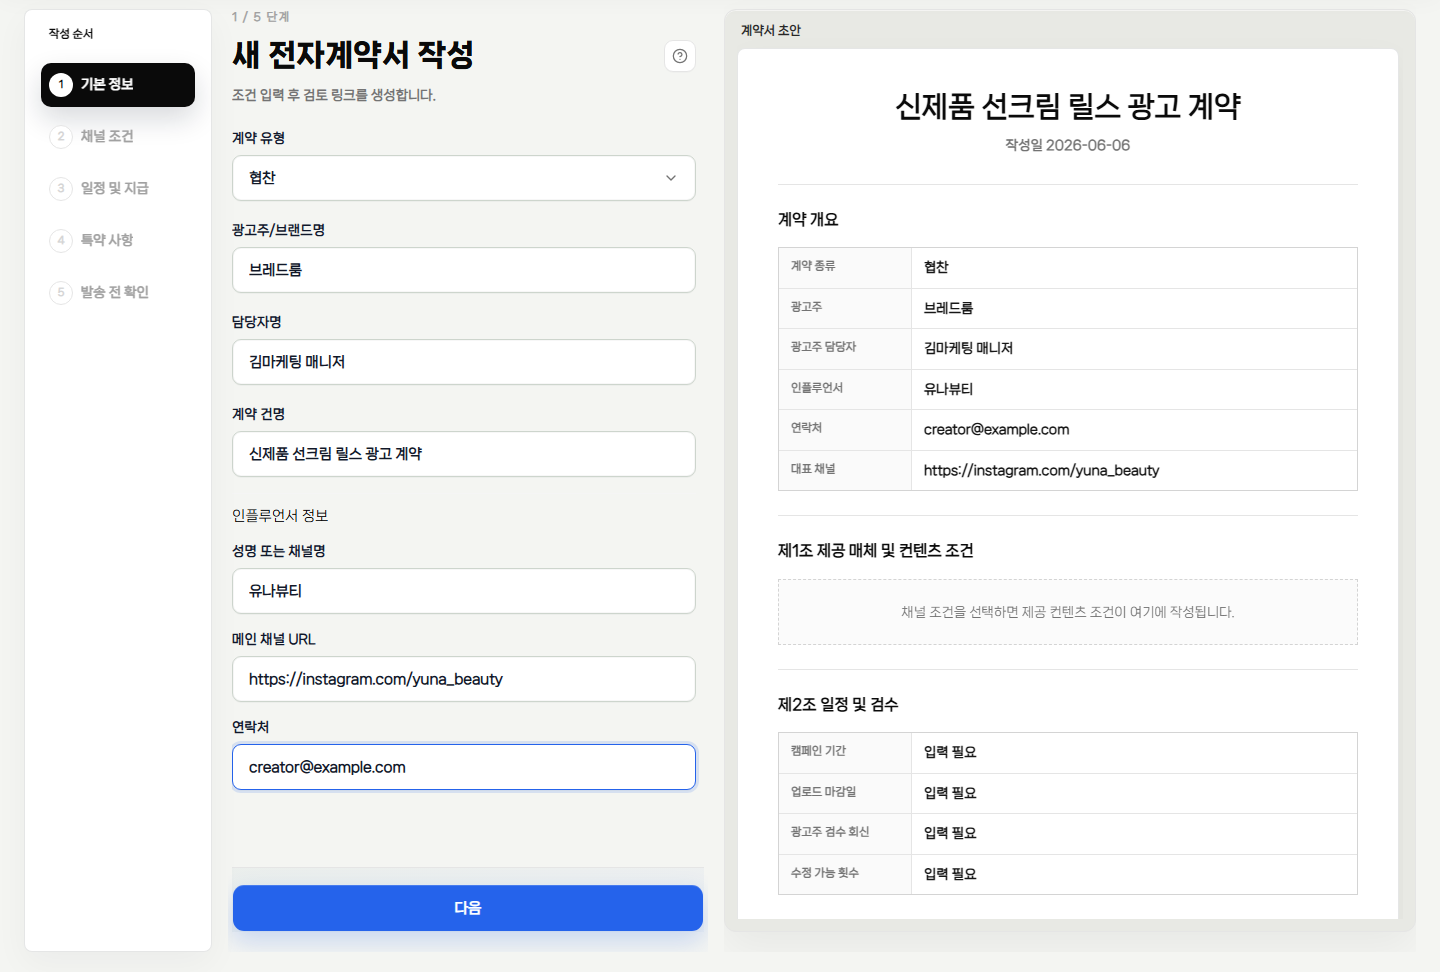
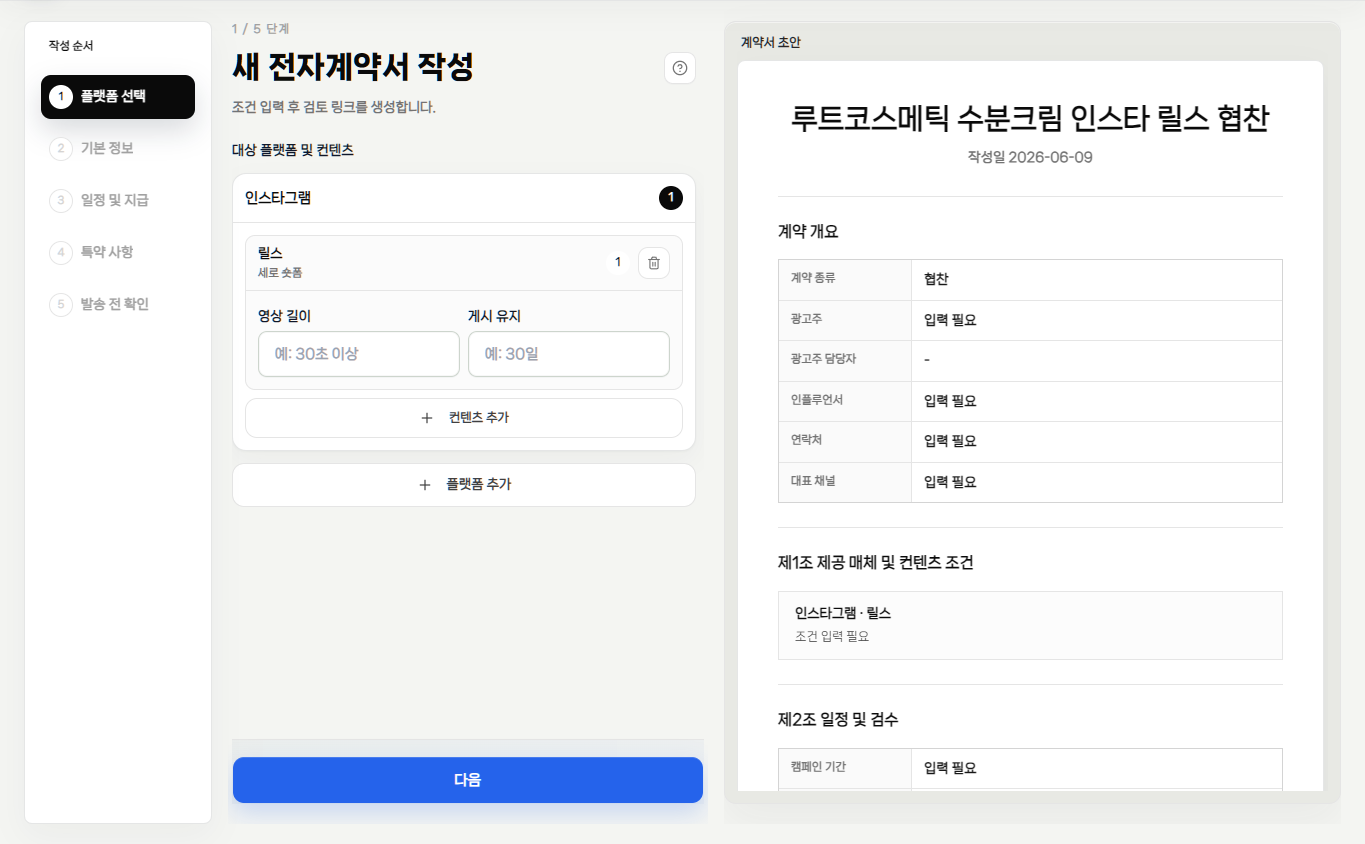
Update intro previews for contract builder

diff --git a/src/pages/landing/LandingPages.tsx b/src/pages/landing/LandingPages.tsx
@@ -35,6 +35,10 @@ const advertiserProposalAssetUrls = {
     "../../../docs/sales/assets/yeollock-intro-contract-builder-focused.png",
     import.meta.url,
   ).href,
+  introContractBuilderMobile: new URL(
+    "../../../docs/sales/assets/yeollock-intro-contract-builder-mobile.png",
+    import.meta.url,
+  ).href,
   introContractShare: new URL(
     "../../../docs/sales/assets/yeollock-intro-contract-share-focused.png",
     import.meta.url,
@@ -49,6 +53,18 @@ const advertiserProposalAssetUrls = {
   ).href,
   introContentReview: new URL(
     "../../../docs/sales/assets/yeollock-intro-content-review-focused.png",
+    import.meta.url,
+  ).href,
+  introContentReviewMobile: new URL(
+    "../../../docs/sales/assets/yeollock-intro-content-review-mobile.png",
+    import.meta.url,
+  ).href,
+  introCampaignsMobile: new URL(
+    "../../../docs/sales/assets/yeollock-intro-campaigns-mobile.png",
+    import.meta.url,
+  ).href,
+  introInfluencerDashboardMobile: new URL(
+    "../../../docs/sales/assets/yeollock-intro-influencer-dashboard-mobile.png",
     import.meta.url,
   ).href,
   contractHandshake: new URL(
@@ -351,12 +367,18 @@ function collectIntroProposalImageSources(slides: IntroProposalSlide[]) {
     if (slide.productPreview === "advertiserBuilder") {
       sources.add(advertiserProposalAssetUrls.contractBuilder);
       sources.add(advertiserProposalAssetUrls.introContractBuilder);
+      sources.add(advertiserProposalAssetUrls.introContractBuilderMobile);
     }
     if (slide.productPreview === "advertiserContractReview") {
       sources.add(advertiserProposalAssetUrls.introContentReview);
+      sources.add(advertiserProposalAssetUrls.introContentReviewMobile);
     }
     if (slide.productPreview === "advertiserApplicants") {
       sources.add(advertiserProposalAssetUrls.introCampaignApplicants);
+      sources.add(advertiserProposalAssetUrls.introCampaignsMobile);
+    }
+    if (slide.productPreview === "influencerDashboard") {
+      sources.add(advertiserProposalAssetUrls.introInfluencerDashboardMobile);
     }
   });
 
@@ -2300,12 +2322,18 @@ function IntroProposalProductPreview({
 
   if (kind === "influencerDashboard") {
     return (
-      <div className="h-full min-h-0 overflow-hidden rounded-[16px]">
-        <InfluencerIntroDashboardPreview
-          data={introDashboardDemoData.influencer}
-          stateIndex={1}
+      <>
+        <IntroMobileServiceCapture
+          imageAlt="실제 모바일 인플루언서 계약 대시보드 화면"
+          imageSrc={advertiserProposalAssetUrls.introInfluencerDashboardMobile}
         />
-      </div>
+        <div className="hidden h-full min-h-0 overflow-hidden rounded-[16px] sm:block">
+          <InfluencerIntroDashboardPreview
+            data={introDashboardDemoData.influencer}
+            stateIndex={1}
+          />
+        </div>
+      </>
     );
   }
 
@@ -2351,6 +2379,29 @@ function IntroDesktopServiceCapture({
   );
 }
 
+function IntroMobileServiceCapture({
+  imageAlt,
+  imageSrc,
+}: {
+  imageAlt: string;
+  imageSrc: string;
+}) {
+  return (
+    <section
+      data-intro-real-service-capture
+      data-intro-headerless-service-capture
+      className="flex h-full min-h-0 items-center justify-center overflow-hidden rounded-[16px] bg-[#e9ede8] p-2 sm:hidden"
+    >
+      <img
+        src={imageSrc}
+        alt={imageAlt}
+        className="h-auto max-h-[min(100%,560px)] w-auto max-w-[300px] object-contain object-center"
+        loading="eager"
+      />
+    </section>
+  );
+}
+
 function AdvertiserBuilderProductPreview() {
   return (
     <>
@@ -2367,36 +2418,44 @@ function AdvertiserBuilderProductPreview() {
 
 function ActualContractBuilderMobilePreview() {
   return (
-    <section className="relative h-full min-h-0 overflow-hidden rounded-[16px] bg-white shadow-[0_18px_48px_rgba(23,26,23,0.1)] sm:hidden">
-      <div className="absolute inset-0 overflow-hidden">
-        <img
-          src={advertiserProposalAssetUrls.contractBuilder}
-          alt="새 전자계약서 작성 화면"
-          className="absolute left-0 top-[-5.7%] h-auto w-[203%] max-w-none"
-          loading="eager"
-        />
-      </div>
-    </section>
+    <IntroMobileServiceCapture
+      imageAlt="실제 모바일 광고주 전자계약서 작성 화면"
+      imageSrc={advertiserProposalAssetUrls.introContractBuilderMobile}
+    />
   );
 }
 
 function AdvertiserContractReviewProductPreview() {
   return (
-    <IntroDesktopServiceCapture
-      imageAlt="실제 광고주 콘텐츠 검수 대시보드 화면"
-      imageSrc={advertiserProposalAssetUrls.introContentReview}
-      imageClassName="object-contain object-center"
-    />
+    <>
+      <IntroMobileServiceCapture
+        imageAlt="실제 모바일 광고주 계약 관리 화면"
+        imageSrc={advertiserProposalAssetUrls.introContentReviewMobile}
+      />
+      <IntroDesktopServiceCapture
+        desktopOnly
+        imageAlt="실제 광고주 콘텐츠 검수 대시보드 화면"
+        imageSrc={advertiserProposalAssetUrls.introContentReview}
+        imageClassName="object-contain object-center"
+      />
+    </>
   );
 }
 
 function AdvertiserApplicantsProductPreview() {
   return (
-    <IntroDesktopServiceCapture
-      imageAlt="실제 광고주 캠페인 지원 인플루언서 대시보드 화면"
-      imageSrc={advertiserProposalAssetUrls.introCampaignApplicants}
-      imageClassName="object-contain object-center"
-    />
+    <>
+      <IntroMobileServiceCapture
+        imageAlt="실제 모바일 광고주 캠페인 운영 화면"
+        imageSrc={advertiserProposalAssetUrls.introCampaignsMobile}
+      />
+      <IntroDesktopServiceCapture
+        desktopOnly
+        imageAlt="실제 광고주 캠페인 지원 인플루언서 대시보드 화면"
+        imageSrc={advertiserProposalAssetUrls.introCampaignApplicants}
+        imageClassName="object-contain object-center"
+      />
+    </>
   );
 }
 
